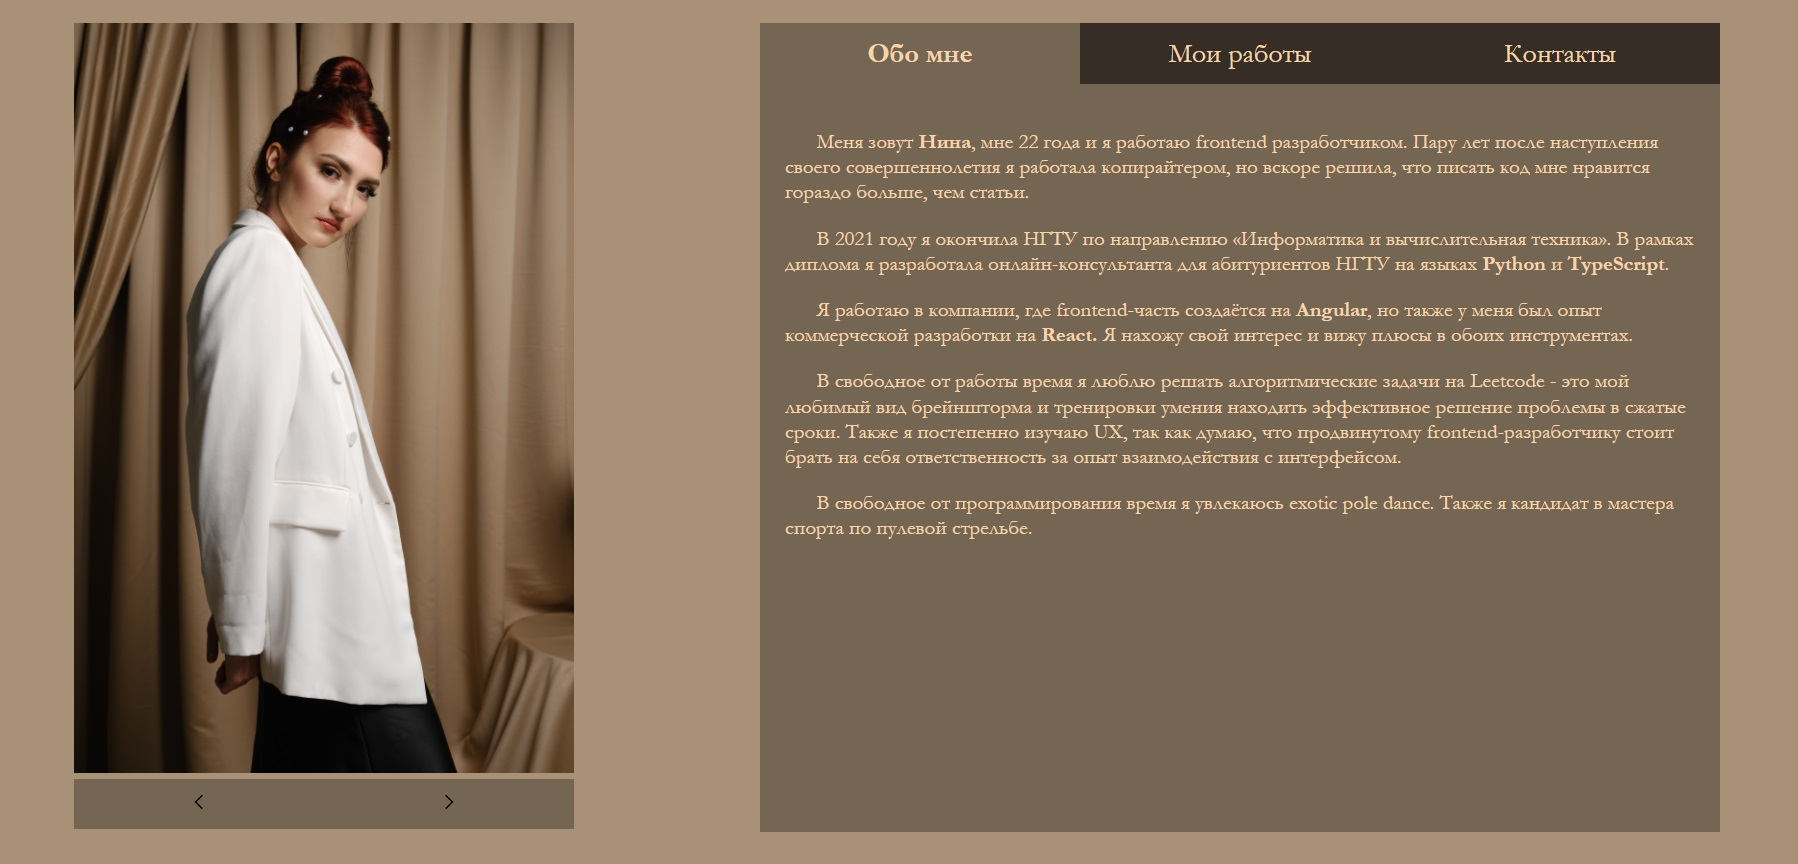
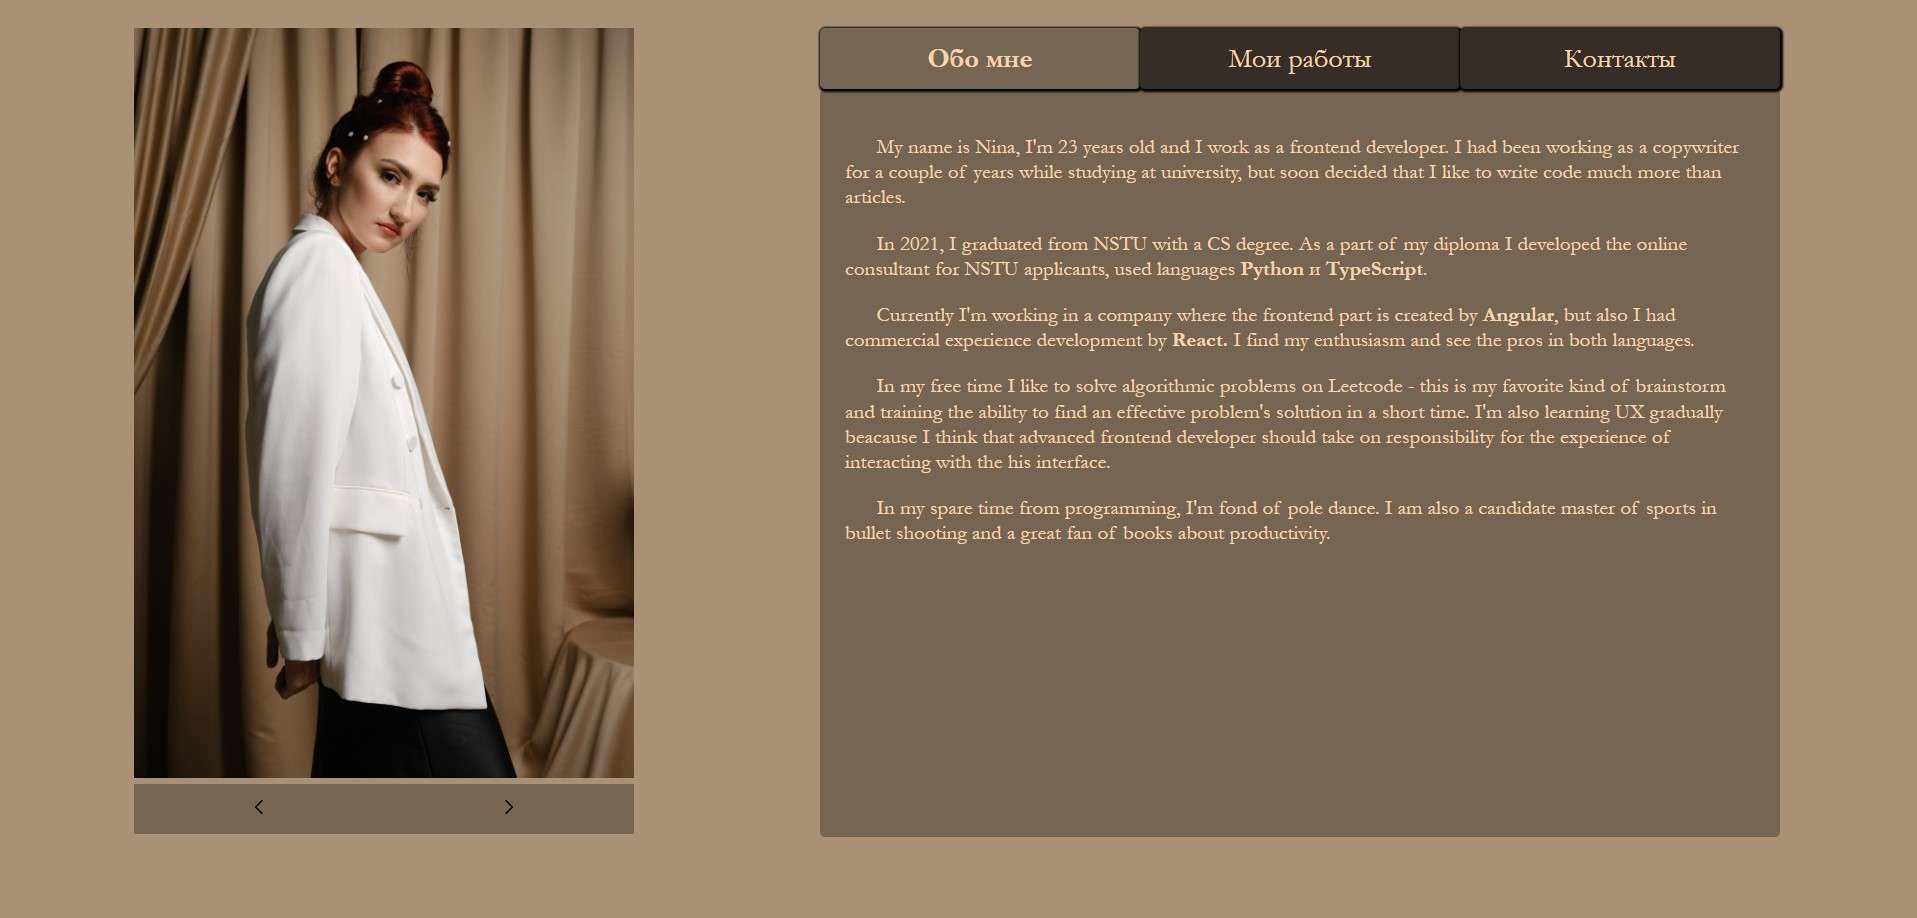
Translate and update

diff --git a/src/About/About.tsx b/src/About/About.tsx
@@ -5,37 +5,35 @@ const About = (state: State) => {
   return (
     <div className="about-content">
       <p style={state.theme.text}>
-        Меня зовут <span style={state.theme.boldText}>Нина</span>, мне 22 года и я работаю frontend
-        разработчиком. Пару лет после наступления 
-        своего совершеннолетия
-        я работала копирайтером, но вскоре решила, что писать код мне
-        нравится гораздо больше, чем статьи.
+            My name is Nina, I'm 23 years old and I work as a frontend developer.
+        I had been working as a copywriter for a couple of years while studying at university,
+        but soon decided that I like to write code much more than articles.
       </p>
       <p style={state.theme.text}>
-            В 2021 году я окончила НГТУ по направлению 
-        «Информатика и вычислительная техника».
-        В рамках диплома я разработала онлайн-консультанта
-        для абитуриентов НГТУ на языках <span style={state.theme.boldText}>Python </span>
+          In 2021, I graduated from NSTU with a CS degree.
+        As a part of my diploma I developed the online consultant
+        for NSTU applicants, used languages <span style={state.theme.boldText}>Python </span>
         и <span style={state.theme.boldText}>TypeScript</span>.
       </p>
       <p style={state.theme.text}>
-        Я работаю в компании, где frontend-часть
-        создаётся на <span style={state.theme.boldText}>Angular</span>, 
-        но также у меня был опыт коммерческой
-        разработки на <span style={state.theme.boldText}>React. </span>
-        Я нахожу свой интерес и вижу плюсы в обоих инструментах.
+          Currently I'm working in a company where the frontend part
+        is created by <span style={state.theme.boldText}>Angular</span>, 
+        but also I had commercial experience
+        development by <span style={state.theme.boldText}>React. </span>
+        I find my enthusiasm and see the pros in both languages.
       </p>
       <p style={state.theme.text}>
-            В свободное от работы время я люблю решать алгоритмические задачи 
-        на Leetcode -  это мой любимый вид брейншторма
-        и тренировки умения находить эффективное решение проблемы
-        в сжатые сроки. Также я постепенно изучаю UX, так как думаю,
-        что продвинутому frontend-разработчику стоит брать на себя 
-        ответственность за опыт взаимодействия с интерфейсом.
+          In my free time I like to solve algorithmic problems
+        on Leetcode - this is my favorite kind of brainstorm
+        and training the ability to find an effective problem's solution
+        in a short time. I'm also learning UX gradually beacause I think
+        that advanced frontend developer should take on
+        responsibility for the experience of interacting with the his interface.
       </p>
       <p style={state.theme.text}>
-            В свободное от программирования время я увлекаюсь exotic pole dance.
-        Также я кандидат в мастера спорта по пулевой стрельбе.
+            In my spare time from programming, I'm fond of pole dance.
+        I am also a candidate master of sports in bullet shooting
+        and a great fan of books about productivity.
       </p>
     </div>
   );

diff --git a/src/Works/Works.tsx b/src/Works/Works.tsx
@@ -5,11 +5,17 @@ import './Works.sass';
 
 const Works = (state: State) => {
   const works: WorkInfo[] = [{
-    title: "Личный сайт",
-    description: "Небольшой личный сайт с персональной информацией, личными проектами и любимыми фотографиями.",
+    title: "Personal site",
+    description: "A small personal site with information about me, pet-projects and favorite photos.",
     iconPath: 'icons/personal.png',
-    linkWeb: '',
+    linkWeb: 'https://github.com/ninaTorgunakova/shakespeare-quotes-generator',
     linkCode: 'https://github.com/ninaTorgunakova/portfolio'
+  }, {
+    title: "William Shakespeare's quote generator",
+    description: "Quote generator of the wisest of writers.",
+    iconPath: 'icons/personal.png',
+    linkWeb: 'https://shakespeare-quotes-generator.vercel.app/',
+    linkCode: 'https://github.com/ninaTorgunakova/shakespeare-quotes-generator'
   }];
   return (
     <div className="work-content">

diff --git a/src/Works/Work/Work.tsx b/src/Works/Work/Work.tsx
@@ -21,8 +21,8 @@ const Work = (props: WorkProps) => {
       <div className="text-info">
         <div style={props.theme.boldText} className="title">{props.info.title}</div>
         <div style={props.theme.text} className="description">{props.info.description}</div>
-        <a href={props.info.linkWeb} style={props.theme.text} className="link" target="_blank" rel="noreferrer">Ссылка на сайт</a>
-        <a href={props.info.linkCode} style={props.theme.text} className="link" target="_blank" rel="noreferrer">Ссылка на репозиторий</a>
+        <a href={props.info.linkWeb} style={props.theme.text} className="link" target="_blank" rel="noreferrer">Link to site</a>
+        <a href={props.info.linkCode} style={props.theme.text} className="link" target="_blank" rel="noreferrer">Link to repo</a>
       </div>
     </div>
   );

diff --git a/src/MainPage/MainPage.sass b/src/MainPage/MainPage.sass
@@ -64,6 +64,8 @@
   text-align: center
   cursor: pointer
   opacity: 1
+  box-shadow: black 1px 1px 2px 2px
+  border-radius: 5px
   &:active
     box-shadow: 0 0 15px 2px
     margin: 1px 1px 1px 0
@@ -74,6 +76,7 @@
   height: 748px
   width: 100%
   overflow-y: auto
+  border-radius: 5px
 
 ::-webkit-scrollbar 
   height: 12px

diff --git a/src/Contacts/Contacts.sass b/src/Contacts/Contacts.sass
@@ -1,5 +1,6 @@
 .contacts-content
   padding: 25px
+  font-size: 1.5em
   
 .contact-icon
   width: 50px

diff --git a/src/Works/Work/Work.sass b/src/Works/Work/Work.sass
@@ -1,5 +1,6 @@
 .card
   display: flex
+  margin-bottom: 50px
   
 .text-info
   display: flex
